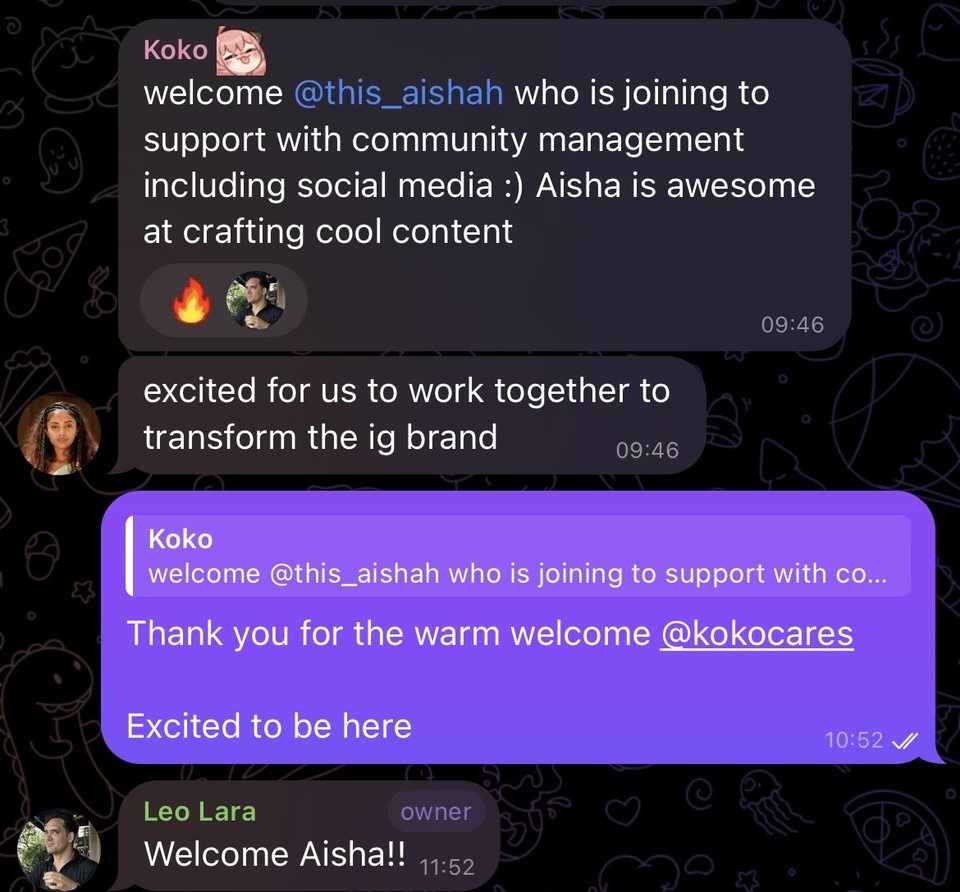
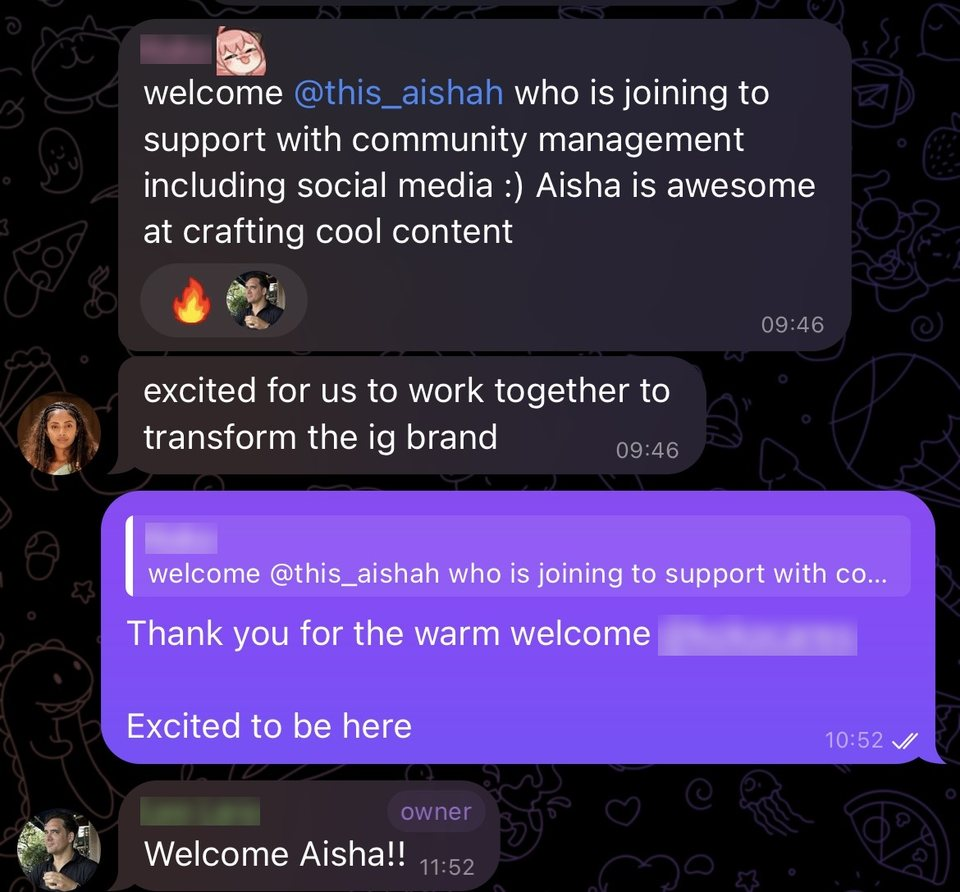
Feedback: linked cards on Sereel, all names blurred
Sereel's feedback drops the transfer agents chat and adds a LinkedIn
post screenshot (115 reactions, 22 reposts). Each card links to the
original: the TikTok video, the LinkedIn post and the article. The
Invisible Garden screenshots now blur everyone's names except
Aishat's, and no caption or alt text names anyone.

Claude-Session: https://claude.ai/code/session_01XHYe4MUWViC3jSLNjhurio

diff --git a/components/views/CaseSereelView.tsx b/components/views/CaseSereelView.tsx
@@ -516,20 +516,50 @@ export default function CaseSereelView() {
           <div className="case-main">
             <div className="case-feedback">
               <div className="case-feedback-col">
-                <figure className="case-feedback-shot">
-                  <img src={`${BASE}/images/sereel-feedback-video.jpg`} alt="Team chat. Aishat shares a short-form video titled Transfer Agents. Bunny replies: I like this videos compared to the AI ones, the audience will relate more. Lance Davis reacts with 100." loading="lazy" />
-                  <figcaption className="t-caption secondary">On my short-form video about transfer agents</figcaption>
-                </figure>
-                <figure className="case-feedback-shot">
-                  <img src={`${BASE}/images/sereel-feedback-piece.jpg`} alt="Chat message from Bunny about Aishat’s piece Tokenized Funds Explained: This is a great piece Aishat! Aishat replies: Thank you Bunny." loading="lazy" />
-                  <figcaption className="t-caption secondary">On my piece Tokenized Funds Explained</figcaption>
-                </figure>
+                <a className="case-feedback-shot is-link" href="https://www.tiktok.com/@0xsereel/video/7677895572996558101" target="_blank" rel="noopener">
+                  <img src={`${BASE}/images/sereel-feedback-short-form.jpg`} alt="Team chat. Aishat shares a short-form video on tokenized money market funds, captioned Short form content. A teammate replies: this is fire. Another replies: flaaaaames Aishat, g2g." loading="lazy" />
+                  <span className="t-caption secondary case-feedback-cap">
+                    <span>On my short-form video about tokenized money market funds</span>
+                    <span className="case-shot-link">
+                      Watch the video on TikTok{" "}
+                      <svg width="18" height="18" viewBox="0 0 24 24" fill="none" stroke="currentColor" strokeWidth="1.75" strokeLinecap="round" strokeLinejoin="round" aria-hidden="true">
+                        <path d="M7 7h10v10" />
+                        <path d="M7 17 17 7" />
+                      </svg>
+                    </span>
+                  </span>
+                  <span className="visually-hidden">(opens in a new tab)</span>
+                </a>
               </div>
               <div className="case-feedback-col">
-                <figure className="case-feedback-shot">
-                  <img src={`${BASE}/images/sereel-feedback-short-form.jpg`} alt="Team chat. Aishat shares a short-form video on tokenized money market funds, captioned Short form content. Bunny replies: this is fire. Lance Davis replies: flaaaaames Aishat, g2g." loading="lazy" />
-                  <figcaption className="t-caption secondary">On my short-form video about tokenized money market funds</figcaption>
-                </figure>
+                <a className="case-feedback-shot is-link" href="https://lnkd.in/p/eDPg_Dwe" target="_blank" rel="noopener">
+                  <img src={`${BASE}/images/sereel-feedback-linkedin.jpg`} alt="A Sereel LinkedIn post with an illustration of the Absa and Ripple logos around a shield over a map of Africa, with 115 reactions, 3 comments and 22 reposts." loading="lazy" />
+                  <span className="t-caption secondary case-feedback-cap">
+                    <span>A LinkedIn post for Sereel: 115 reactions, 3 comments and 22 reposts</span>
+                    <span className="case-shot-link">
+                      See the post on LinkedIn{" "}
+                      <svg width="18" height="18" viewBox="0 0 24 24" fill="none" stroke="currentColor" strokeWidth="1.75" strokeLinecap="round" strokeLinejoin="round" aria-hidden="true">
+                        <path d="M7 7h10v10" />
+                        <path d="M7 17 17 7" />
+                      </svg>
+                    </span>
+                  </span>
+                  <span className="visually-hidden">(opens in a new tab)</span>
+                </a>
+                <a className="case-feedback-shot is-link" href="https://www.sereel.com/blog/23" target="_blank" rel="noopener">
+                  <img src={`${BASE}/images/sereel-feedback-piece.jpg`} alt="Chat message from a teammate about Aishat’s piece Tokenized Funds Explained: This is a great piece Aishat! Aishat replies: Thank you." loading="lazy" />
+                  <span className="t-caption secondary case-feedback-cap">
+                    <span>On my piece Tokenized Funds Explained</span>
+                    <span className="case-shot-link">
+                      Read the article{" "}
+                      <svg width="18" height="18" viewBox="0 0 24 24" fill="none" stroke="currentColor" strokeWidth="1.75" strokeLinecap="round" strokeLinejoin="round" aria-hidden="true">
+                        <path d="M7 7h10v10" />
+                        <path d="M7 17 17 7" />
+                      </svg>
+                    </span>
+                  </span>
+                  <span className="visually-hidden">(opens in a new tab)</span>
+                </a>
               </div>
             </div>
           </div>

diff --git a/design/CaseSereel.dc.html b/design/CaseSereel.dc.html
@@ -656,6 +656,11 @@ html.aishah-io .home :is(.quote-hint-text,.moment-hint-text){opacity:calc(1 - va
 .case-feedback-col{display:flex;flex-direction:column;gap:var(--space-element);min-width:0;}
 .case-feedback-shot{display:flex;flex-direction:column;gap:var(--space-tight);margin:0;}
 .case-feedback-shot img{display:block;width:100%;height:auto;border-radius:var(--card-radius);border:var(--border-width-hairline) solid var(--card-border);}
+.case-feedback-shot.is-link{text-decoration:none;color:inherit;}
+.case-feedback-shot.is-link img{transition:border-color var(--motion-base) var(--motion-ease);}
+.case-feedback-shot.is-link:hover img,.case-feedback-shot.is-link:focus-visible img{border-color:var(--card-border-hover);}
+.case-feedback-shot.is-link:hover .case-shot-link{text-decoration:underline;text-underline-offset:var(--link-underline-offset);}
+.case-feedback-cap{display:flex;flex-direction:column;align-items:flex-start;gap:var(--space-hairline);}
 @media (max-width: 760px){
 .home{--type-heading-size:26px;}
 .case-fact{grid-template-columns:minmax(0,1fr);}
@@ -913,8 +918,8 @@ html.aishah-io .home :is(.quote-hint-text,.moment-hint-text){opacity:calc(1 - va
 <h2 id="feedback-title" class="t-label case-label"><span class="label-dot" aria-hidden="true"></span>Feedback</h2>
 <div class="case-main">
 <div class="case-feedback">
-<div class="case-feedback-col"><figure class="case-feedback-shot"><img src="/_blob/0119becbdcb4aeacaf526f57d2325e74" alt="Team chat. Aishat shares a short-form video titled Transfer Agents. Bunny replies: I like this videos compared to the AI ones, the audience will relate more. Lance Davis reacts with 100." loading="lazy"><figcaption class="t-caption secondary">On my short-form video about transfer agents</figcaption></figure><figure class="case-feedback-shot"><img src="/_blob/1b0a92083b306de57f8ce51ce00fd215" alt="Chat message from Bunny about Aishat’s piece Tokenized Funds Explained: This is a great piece Aishat! Aishat replies: Thank you Bunny." loading="lazy"><figcaption class="t-caption secondary">On my piece Tokenized Funds Explained</figcaption></figure></div>
-<div class="case-feedback-col"><figure class="case-feedback-shot"><img src="/_blob/12c6bf5a041ebf17dfa9a8bc09acd611" alt="Team chat. Aishat shares a short-form video on tokenized money market funds, captioned Short form content. Bunny replies: this is fire. Lance Davis replies: flaaaaames Aishat, g2g." loading="lazy"><figcaption class="t-caption secondary">On my short-form video about tokenized money market funds</figcaption></figure></div>
+<div class="case-feedback-col"><a class="case-feedback-shot is-link" href="https://www.tiktok.com/@0xsereel/video/7677895572996558101" target="_blank" rel="noopener"><img src="/_blob/12c6bf5a041ebf17dfa9a8bc09acd611" alt="Team chat. Aishat shares a short-form video on tokenized money market funds, captioned Short form content. A teammate replies: this is fire. Another replies: flaaaaames Aishat, g2g." loading="lazy"><span class="t-caption secondary case-feedback-cap"><span>On my short-form video about tokenized money market funds</span><span class="case-shot-link">Watch the video on TikTok <svg width="18" height="18" viewBox="0 0 24 24" fill="none" stroke="currentColor" stroke-width="1.75" stroke-linecap="round" stroke-linejoin="round" aria-hidden="true"><path d="M7 7h10v10"></path><path d="M7 17 17 7"></path></svg></span></span><span class="visually-hidden"> (opens in a new tab)</span></a></div>
+<div class="case-feedback-col"><a class="case-feedback-shot is-link" href="https://lnkd.in/p/eDPg_Dwe" target="_blank" rel="noopener"><img src="/_blob/cd28bd6614ba59310bc632a9593a6b10" alt="A Sereel LinkedIn post with an illustration of the Absa and Ripple logos around a shield over a map of Africa, with 115 reactions, 3 comments and 22 reposts." loading="lazy"><span class="t-caption secondary case-feedback-cap"><span>A LinkedIn post for Sereel: 115 reactions, 3 comments and 22 reposts</span><span class="case-shot-link">See the post on LinkedIn <svg width="18" height="18" viewBox="0 0 24 24" fill="none" stroke="currentColor" stroke-width="1.75" stroke-linecap="round" stroke-linejoin="round" aria-hidden="true"><path d="M7 7h10v10"></path><path d="M7 17 17 7"></path></svg></span></span><span class="visually-hidden"> (opens in a new tab)</span></a><a class="case-feedback-shot is-link" href="https://www.sereel.com/blog/23" target="_blank" rel="noopener"><img src="/_blob/1b0a92083b306de57f8ce51ce00fd215" alt="Chat message from a teammate about Aishat’s piece Tokenized Funds Explained: This is a great piece Aishat! Aishat replies: Thank you." loading="lazy"><span class="t-caption secondary case-feedback-cap"><span>On my piece Tokenized Funds Explained</span><span class="case-shot-link">Read the article <svg width="18" height="18" viewBox="0 0 24 24" fill="none" stroke="currentColor" stroke-width="1.75" stroke-linecap="round" stroke-linejoin="round" aria-hidden="true"><path d="M7 7h10v10"></path><path d="M7 17 17 7"></path></svg></span></span><span class="visually-hidden"> (opens in a new tab)</span></a></div>
 </div>
 </div>
 </div>

diff --git a/design/CaseInvisibleGarden.dc.html b/design/CaseInvisibleGarden.dc.html
@@ -656,6 +656,11 @@ html.aishah-io .home :is(.quote-hint-text,.moment-hint-text){opacity:calc(1 - va
 .case-feedback-col{display:flex;flex-direction:column;gap:var(--space-element);min-width:0;}
 .case-feedback-shot{display:flex;flex-direction:column;gap:var(--space-tight);margin:0;}
 .case-feedback-shot img{display:block;width:100%;height:auto;border-radius:var(--card-radius);border:var(--border-width-hairline) solid var(--card-border);}
+.case-feedback-shot.is-link{text-decoration:none;color:inherit;}
+.case-feedback-shot.is-link img{transition:border-color var(--motion-base) var(--motion-ease);}
+.case-feedback-shot.is-link:hover img,.case-feedback-shot.is-link:focus-visible img{border-color:var(--card-border-hover);}
+.case-feedback-shot.is-link:hover .case-shot-link{text-decoration:underline;text-underline-offset:var(--link-underline-offset);}
+.case-feedback-cap{display:flex;flex-direction:column;align-items:flex-start;gap:var(--space-hairline);}
 @media (max-width: 760px){
 .home{--type-heading-size:26px;}
 .case-fact{grid-template-columns:minmax(0,1fr);}
@@ -915,8 +920,8 @@ html.aishah-io .home :is(.quote-hint-text,.moment-hint-text){opacity:calc(1 - va
 <h2 id="feedback-title" class="t-label case-label"><span class="label-dot" aria-hidden="true"></span>Feedback</h2>
 <div class="case-main">
 <div class="case-feedback">
-<div class="case-feedback-col"><figure class="case-feedback-shot"><img src="/_blob/e668cd91642f6c4cca3d5e92cb02d031" alt="Chat messages. Koko: welcome @this_aishah who is joining to support with community management including social media. Aisha is awesome at crafting cool content. Excited for us to work together to transform the IG brand. Aishat: Thank you for the warm welcome, excited to be here. Leo Lara: Welcome Aisha!!" loading="lazy"><figcaption class="t-caption secondary">Welcomed to the team to support community management and social media</figcaption></figure><figure class="case-feedback-shot"><img src="/_blob/8568bfe77284a8cec7a5b8142750ec92" alt="Chat message from Xixi Odyssey: @this_aishah Hi, you’re doing mkt great!" loading="lazy"><figcaption class="t-caption secondary">A note from Xixi Odyssey</figcaption></figure><figure class="case-feedback-shot"><img src="/_blob/398e6f72196897a25964b61f19608c90" alt="Invisible Garden’s X profile showing 2,007 followers, shared in the chat with the message: 2000+ followers strong!!" loading="lazy"><figcaption class="t-caption secondary">Celebrating 2,000+ followers on X</figcaption></figure></div>
-<div class="case-feedback-col"><figure class="case-feedback-shot"><img src="/_blob/54787fdccf0f6147452e72adbfe71a77" alt="Chat messages. Who made this? I love it, with a link to the Invisible Garden Moments reel on Instagram. Xixi Odyssey: I think it’s @this_aishah. Aishat: Yeah, I did." loading="lazy"><figcaption class="t-caption secondary">The Invisible Garden Moments reel I made</figcaption></figure></div>
+<div class="case-feedback-col"><figure class="case-feedback-shot"><img src="/_blob/82d644c97752957c83ac6524078aa7d6" alt="Chat messages. A teammate: welcome @this_aishah who is joining to support with community management including social media. Aisha is awesome at crafting cool content. Another: Excited for us to work together to transform the IG brand. Aishat: Thank you for the warm welcome, excited to be here. The owner: Welcome Aisha!!" loading="lazy"><figcaption class="t-caption secondary">Welcomed to the team to support community management and social media</figcaption></figure><figure class="case-feedback-shot"><img src="/_blob/bca7a7f8c11b113872bfb34a67e0fa99" alt="Chat message from a teammate: @this_aishah Hi, you’re doing mkt great!" loading="lazy"><figcaption class="t-caption secondary">A note from the team</figcaption></figure><figure class="case-feedback-shot"><img src="/_blob/398e6f72196897a25964b61f19608c90" alt="Invisible Garden’s X profile showing 2,007 followers, shared in the chat with the message: 2000+ followers strong!!" loading="lazy"><figcaption class="t-caption secondary">Celebrating 2,000+ followers on X</figcaption></figure></div>
+<div class="case-feedback-col"><figure class="case-feedback-shot"><img src="/_blob/83eedd4f311ded8bdb31981b6783f4eb" alt="Chat messages. Who made this? I love it, with a link to the Invisible Garden Moments reel on Instagram. A teammate: I think it’s @this_aishah. Aishat: Yeah, I did." loading="lazy"><figcaption class="t-caption secondary">The Invisible Garden Moments reel I made</figcaption></figure></div>
 </div>
 </div>
 </div>

diff --git a/components/views/CaseInvisibleGardenView.tsx b/components/views/CaseInvisibleGardenView.tsx
@@ -470,12 +470,12 @@ export default function CaseInvisibleGardenView() {
             <div className="case-feedback">
               <div className="case-feedback-col">
                 <figure className="case-feedback-shot">
-                  <img src={`${BASE}/images/ig-feedback-welcome.jpg`} alt="Chat messages. Koko: welcome @this_aishah who is joining to support with community management including social media. Aisha is awesome at crafting cool content. Excited for us to work together to transform the IG brand. Aishat: Thank you for the warm welcome, excited to be here. Leo Lara: Welcome Aisha!!" loading="lazy" />
+                  <img src={`${BASE}/images/ig-feedback-welcome.jpg`} alt="Chat messages. A teammate: welcome @this_aishah who is joining to support with community management including social media. Aisha is awesome at crafting cool content. Another: Excited for us to work together to transform the IG brand. Aishat: Thank you for the warm welcome, excited to be here. The owner: Welcome Aisha!!" loading="lazy" />
                   <figcaption className="t-caption secondary">Welcomed to the team to support community management and social media</figcaption>
                 </figure>
                 <figure className="case-feedback-shot">
-                  <img src={`${BASE}/images/ig-feedback-xixi.jpg`} alt="Chat message from Xixi Odyssey: @this_aishah Hi, you’re doing mkt great!" loading="lazy" />
-                  <figcaption className="t-caption secondary">A note from Xixi Odyssey</figcaption>
+                  <img src={`${BASE}/images/ig-feedback-xixi.jpg`} alt="Chat message from a teammate: @this_aishah Hi, you’re doing mkt great!" loading="lazy" />
+                  <figcaption className="t-caption secondary">A note from the team</figcaption>
                 </figure>
                 <figure className="case-feedback-shot">
                   <img src={`${BASE}/images/ig-feedback-x-followers.jpg`} alt="Invisible Garden’s X profile showing 2,007 followers, shared in the chat with the message: 2000+ followers strong!!" loading="lazy" />
@@ -484,7 +484,7 @@ export default function CaseInvisibleGardenView() {
               </div>
               <div className="case-feedback-col">
                 <figure className="case-feedback-shot">
-                  <img src={`${BASE}/images/ig-feedback-reel.jpg`} alt="Chat messages. Who made this? I love it, with a link to the Invisible Garden Moments reel on Instagram. Xixi Odyssey: I think it’s @this_aishah. Aishat: Yeah, I did." loading="lazy" />
+                  <img src={`${BASE}/images/ig-feedback-reel.jpg`} alt="Chat messages. Who made this? I love it, with a link to the Invisible Garden Moments reel on Instagram. A teammate: I think it’s @this_aishah. Aishat: Yeah, I did." loading="lazy" />
                   <figcaption className="t-caption secondary">The Invisible Garden Moments reel I made</figcaption>
                 </figure>
               </div>

diff --git a/app/work/code-africa/page.css b/app/work/code-africa/page.css
@@ -646,6 +646,11 @@ html.aishah-io .home :is(.quote-hint-text,.moment-hint-text){opacity:calc(1 - va
 .case-feedback-col{display:flex;flex-direction:column;gap:var(--space-element);min-width:0;}
 .case-feedback-shot{display:flex;flex-direction:column;gap:var(--space-tight);margin:0;}
 .case-feedback-shot img{display:block;width:100%;height:auto;border-radius:var(--card-radius);border:var(--border-width-hairline) solid var(--card-border);}
+.case-feedback-shot.is-link{text-decoration:none;color:inherit;}
+.case-feedback-shot.is-link img{transition:border-color var(--motion-base) var(--motion-ease);}
+.case-feedback-shot.is-link:hover img,.case-feedback-shot.is-link:focus-visible img{border-color:var(--card-border-hover);}
+.case-feedback-shot.is-link:hover .case-shot-link{text-decoration:underline;text-underline-offset:var(--link-underline-offset);}
+.case-feedback-cap{display:flex;flex-direction:column;align-items:flex-start;gap:var(--space-hairline);}
 @media (max-width: 760px){
 .home{--type-heading-size:26px;}
 .case-fact{grid-template-columns:minmax(0,1fr);}

diff --git a/app/work/community-for-africa/page.css b/app/work/community-for-africa/page.css
@@ -646,6 +646,11 @@ html.aishah-io .home :is(.quote-hint-text,.moment-hint-text){opacity:calc(1 - va
 .case-feedback-col{display:flex;flex-direction:column;gap:var(--space-element);min-width:0;}
 .case-feedback-shot{display:flex;flex-direction:column;gap:var(--space-tight);margin:0;}
 .case-feedback-shot img{display:block;width:100%;height:auto;border-radius:var(--card-radius);border:var(--border-width-hairline) solid var(--card-border);}
+.case-feedback-shot.is-link{text-decoration:none;color:inherit;}
+.case-feedback-shot.is-link img{transition:border-color var(--motion-base) var(--motion-ease);}
+.case-feedback-shot.is-link:hover img,.case-feedback-shot.is-link:focus-visible img{border-color:var(--card-border-hover);}
+.case-feedback-shot.is-link:hover .case-shot-link{text-decoration:underline;text-underline-offset:var(--link-underline-offset);}
+.case-feedback-cap{display:flex;flex-direction:column;align-items:flex-start;gap:var(--space-hairline);}
 @media (max-width: 760px){
 .home{--type-heading-size:26px;}
 .case-fact{grid-template-columns:minmax(0,1fr);}

diff --git a/app/work/invisible-garden/page.css b/app/work/invisible-garden/page.css
@@ -646,6 +646,11 @@ html.aishah-io .home :is(.quote-hint-text,.moment-hint-text){opacity:calc(1 - va
 .case-feedback-col{display:flex;flex-direction:column;gap:var(--space-element);min-width:0;}
 .case-feedback-shot{display:flex;flex-direction:column;gap:var(--space-tight);margin:0;}
 .case-feedback-shot img{display:block;width:100%;height:auto;border-radius:var(--card-radius);border:var(--border-width-hairline) solid var(--card-border);}
+.case-feedback-shot.is-link{text-decoration:none;color:inherit;}
+.case-feedback-shot.is-link img{transition:border-color var(--motion-base) var(--motion-ease);}
+.case-feedback-shot.is-link:hover img,.case-feedback-shot.is-link:focus-visible img{border-color:var(--card-border-hover);}
+.case-feedback-shot.is-link:hover .case-shot-link{text-decoration:underline;text-underline-offset:var(--link-underline-offset);}
+.case-feedback-cap{display:flex;flex-direction:column;align-items:flex-start;gap:var(--space-hairline);}
 @media (max-width: 760px){
 .home{--type-heading-size:26px;}
 .case-fact{grid-template-columns:minmax(0,1fr);}

diff --git a/app/work/one-dev/page.css b/app/work/one-dev/page.css
@@ -646,6 +646,11 @@ html.aishah-io .home :is(.quote-hint-text,.moment-hint-text){opacity:calc(1 - va
 .case-feedback-col{display:flex;flex-direction:column;gap:var(--space-element);min-width:0;}
 .case-feedback-shot{display:flex;flex-direction:column;gap:var(--space-tight);margin:0;}
 .case-feedback-shot img{display:block;width:100%;height:auto;border-radius:var(--card-radius);border:var(--border-width-hairline) solid var(--card-border);}
+.case-feedback-shot.is-link{text-decoration:none;color:inherit;}
+.case-feedback-shot.is-link img{transition:border-color var(--motion-base) var(--motion-ease);}
+.case-feedback-shot.is-link:hover img,.case-feedback-shot.is-link:focus-visible img{border-color:var(--card-border-hover);}
+.case-feedback-shot.is-link:hover .case-shot-link{text-decoration:underline;text-underline-offset:var(--link-underline-offset);}
+.case-feedback-cap{display:flex;flex-direction:column;align-items:flex-start;gap:var(--space-hairline);}
 @media (max-width: 760px){
 .home{--type-heading-size:26px;}
 .case-fact{grid-template-columns:minmax(0,1fr);}

diff --git a/app/work/open-terms-archive/page.css b/app/work/open-terms-archive/page.css
@@ -646,6 +646,11 @@ html.aishah-io .home :is(.quote-hint-text,.moment-hint-text){opacity:calc(1 - va
 .case-feedback-col{display:flex;flex-direction:column;gap:var(--space-element);min-width:0;}
 .case-feedback-shot{display:flex;flex-direction:column;gap:var(--space-tight);margin:0;}
 .case-feedback-shot img{display:block;width:100%;height:auto;border-radius:var(--card-radius);border:var(--border-width-hairline) solid var(--card-border);}
+.case-feedback-shot.is-link{text-decoration:none;color:inherit;}
+.case-feedback-shot.is-link img{transition:border-color var(--motion-base) var(--motion-ease);}
+.case-feedback-shot.is-link:hover img,.case-feedback-shot.is-link:focus-visible img{border-color:var(--card-border-hover);}
+.case-feedback-shot.is-link:hover .case-shot-link{text-decoration:underline;text-underline-offset:var(--link-underline-offset);}
+.case-feedback-cap{display:flex;flex-direction:column;align-items:flex-start;gap:var(--space-hairline);}
 @media (max-width: 760px){
 .home{--type-heading-size:26px;}
 .case-fact{grid-template-columns:minmax(0,1fr);}

diff --git a/app/work/sereel/page.css b/app/work/sereel/page.css
@@ -646,6 +646,11 @@ html.aishah-io .home :is(.quote-hint-text,.moment-hint-text){opacity:calc(1 - va
 .case-feedback-col{display:flex;flex-direction:column;gap:var(--space-element);min-width:0;}
 .case-feedback-shot{display:flex;flex-direction:column;gap:var(--space-tight);margin:0;}
 .case-feedback-shot img{display:block;width:100%;height:auto;border-radius:var(--card-radius);border:var(--border-width-hairline) solid var(--card-border);}
+.case-feedback-shot.is-link{text-decoration:none;color:inherit;}
+.case-feedback-shot.is-link img{transition:border-color var(--motion-base) var(--motion-ease);}
+.case-feedback-shot.is-link:hover img,.case-feedback-shot.is-link:focus-visible img{border-color:var(--card-border-hover);}
+.case-feedback-shot.is-link:hover .case-shot-link{text-decoration:underline;text-underline-offset:var(--link-underline-offset);}
+.case-feedback-cap{display:flex;flex-direction:column;align-items:flex-start;gap:var(--space-hairline);}
 @media (max-width: 760px){
 .home{--type-heading-size:26px;}
 .case-fact{grid-template-columns:minmax(0,1fr);}

diff --git a/app/work/web3ladies/page.css b/app/work/web3ladies/page.css
@@ -646,6 +646,11 @@ html.aishah-io .home :is(.quote-hint-text,.moment-hint-text){opacity:calc(1 - va
 .case-feedback-col{display:flex;flex-direction:column;gap:var(--space-element);min-width:0;}
 .case-feedback-shot{display:flex;flex-direction:column;gap:var(--space-tight);margin:0;}
 .case-feedback-shot img{display:block;width:100%;height:auto;border-radius:var(--card-radius);border:var(--border-width-hairline) solid var(--card-border);}
+.case-feedback-shot.is-link{text-decoration:none;color:inherit;}
+.case-feedback-shot.is-link img{transition:border-color var(--motion-base) var(--motion-ease);}
+.case-feedback-shot.is-link:hover img,.case-feedback-shot.is-link:focus-visible img{border-color:var(--card-border-hover);}
+.case-feedback-shot.is-link:hover .case-shot-link{text-decoration:underline;text-underline-offset:var(--link-underline-offset);}
+.case-feedback-cap{display:flex;flex-direction:column;align-items:flex-start;gap:var(--space-hairline);}
 @media (max-width: 760px){
 .home{--type-heading-size:26px;}
 .case-fact{grid-template-columns:minmax(0,1fr);}

diff --git a/design/CaseCodeAfrica.dc.html b/design/CaseCodeAfrica.dc.html
@@ -656,6 +656,11 @@ html.aishah-io .home :is(.quote-hint-text,.moment-hint-text){opacity:calc(1 - va
 .case-feedback-col{display:flex;flex-direction:column;gap:var(--space-element);min-width:0;}
 .case-feedback-shot{display:flex;flex-direction:column;gap:var(--space-tight);margin:0;}
 .case-feedback-shot img{display:block;width:100%;height:auto;border-radius:var(--card-radius);border:var(--border-width-hairline) solid var(--card-border);}
+.case-feedback-shot.is-link{text-decoration:none;color:inherit;}
+.case-feedback-shot.is-link img{transition:border-color var(--motion-base) var(--motion-ease);}
+.case-feedback-shot.is-link:hover img,.case-feedback-shot.is-link:focus-visible img{border-color:var(--card-border-hover);}
+.case-feedback-shot.is-link:hover .case-shot-link{text-decoration:underline;text-underline-offset:var(--link-underline-offset);}
+.case-feedback-cap{display:flex;flex-direction:column;align-items:flex-start;gap:var(--space-hairline);}
 @media (max-width: 760px){
 .home{--type-heading-size:26px;}
 .case-fact{grid-template-columns:minmax(0,1fr);}
